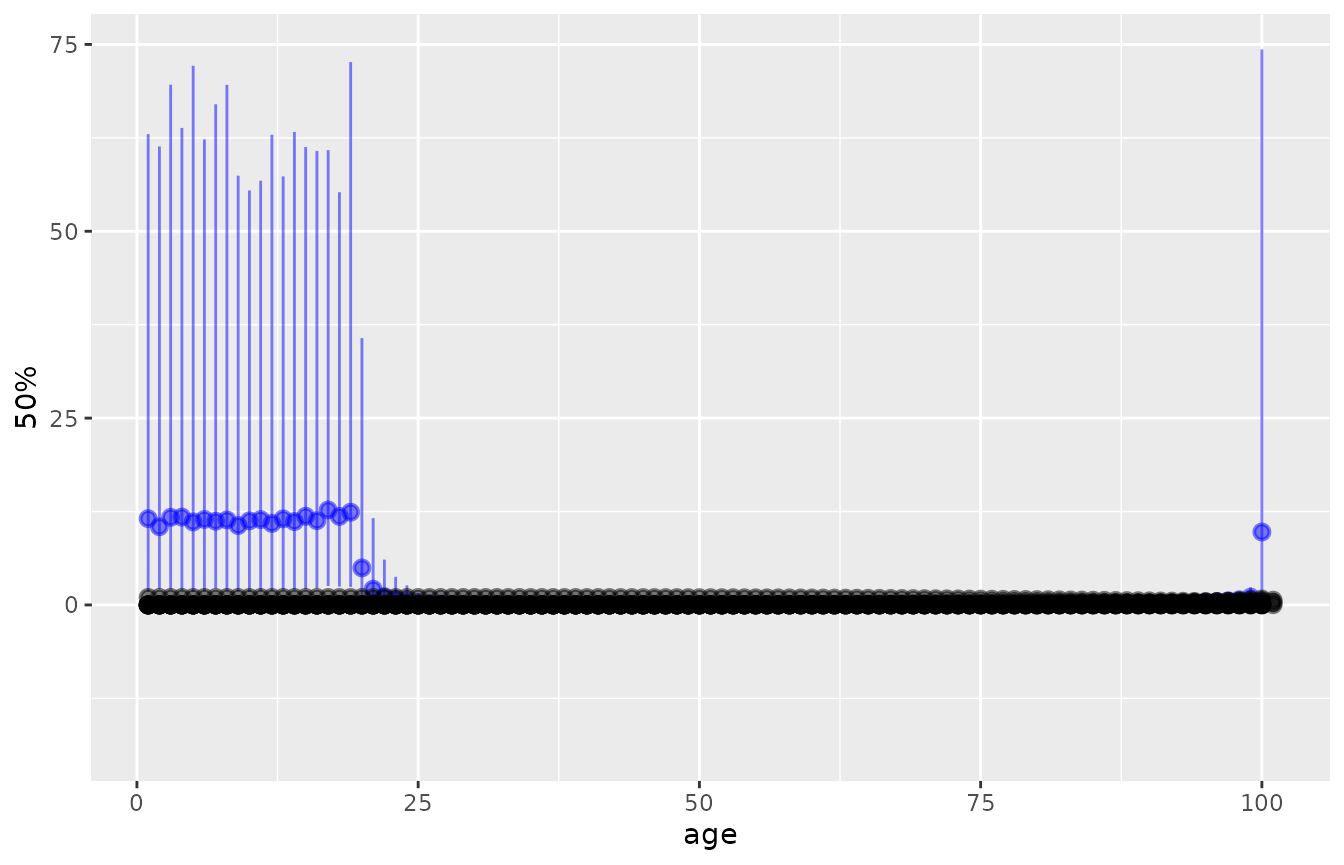
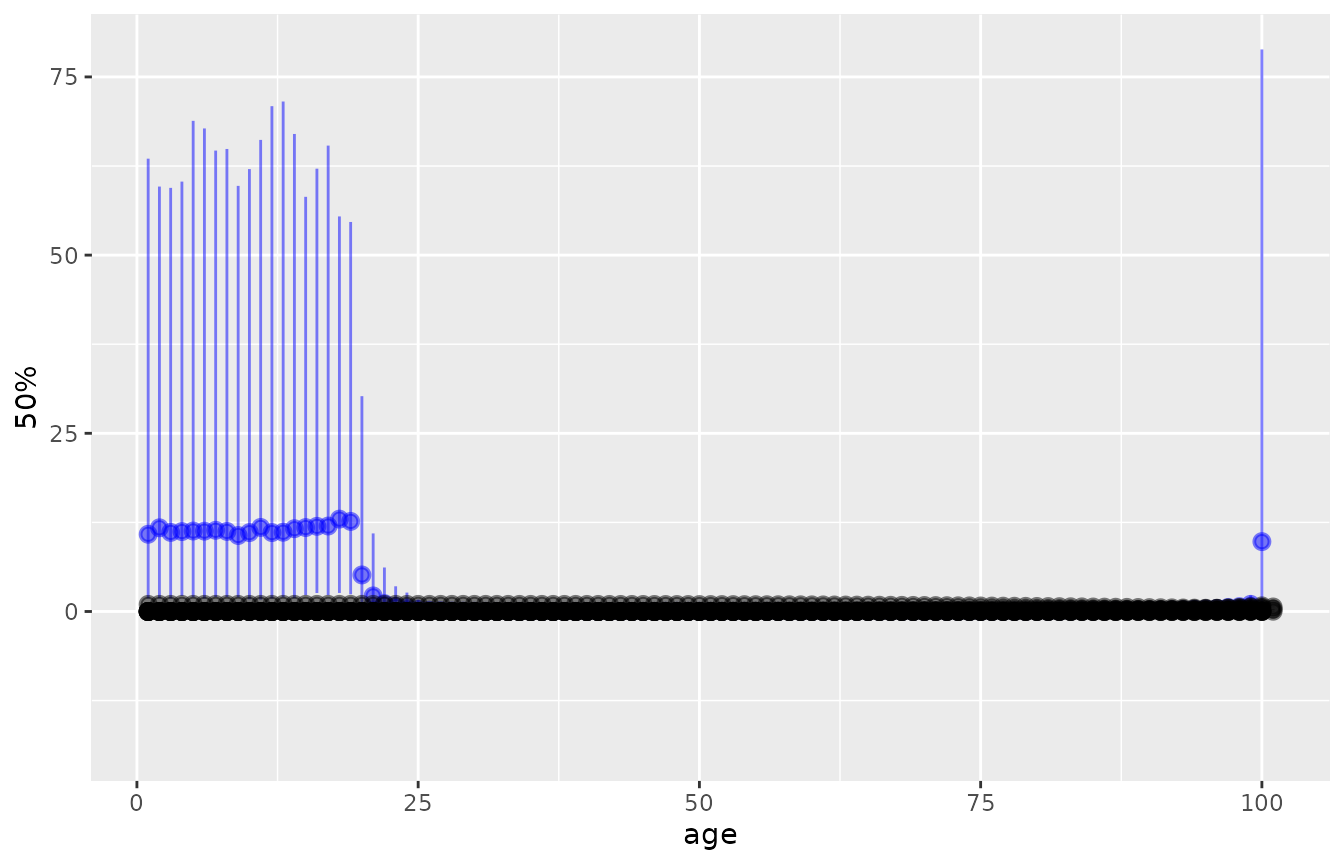
Built site for disbayes: 0.1@8782206

diff --git a/articles/disbayes.html b/articles/disbayes.html
@@ -325,12 +325,12 @@
   <span class="fu"><a href="https://dplyr.tidyverse.org/reference/filter.html">filter</a></span><span class="op">(</span><span class="va">var</span><span class="op">==</span><span class="st">"cf"</span>, <span class="fu"><a href="https://dplyr.tidyverse.org/reference/between.html">between</a></span><span class="op">(</span><span class="va">age</span>,<span class="fl">60</span>,<span class="fl">65</span><span class="op">)</span><span class="op">)</span> <span class="op">%&gt;%</span>
   <span class="fu"><a href="https://dplyr.tidyverse.org/reference/select.html">select</a></span><span class="op">(</span><span class="va">age</span>, <span class="va">`25%`</span>, <span class="va">`50%`</span>, <span class="va">`75%`</span><span class="op">)</span></code></pre></div>
 <pre><code>##   age        25%        50%        75%
-## 1  60 0.01541525 0.01661693 0.01788825
-## 2  61 0.01561033 0.01685860 0.01811163
-## 3  62 0.01589145 0.01707445 0.01828766
-## 4  63 0.01617610 0.01729326 0.01844684
-## 5  64 0.01647867 0.01749429 0.01865247
-## 6  65 0.01681138 0.01773585 0.01886255</code></pre>
+## 1  60 0.01545664 0.01663334 0.01777888
+## 2  61 0.01570048 0.01687896 0.01791480
+## 3  62 0.01599224 0.01709998 0.01809407
+## 4  63 0.01628485 0.01733306 0.01832704
+## 5  64 0.01656001 0.01754188 0.01857176
+## 6  65 0.01684163 0.01780113 0.01884706</code></pre>
 <p>The default <code>plot</code> method for objects returned by <code>disbayes</code> plots the posterior summaries for case fatality, allowing a quick check of the model results. Or do <code><a href="https://rdrr.io/r/graphics/plot.default.html">plot(..., variable="inc")</a></code> for incidence. The function returns a <code>ggplot2</code> object that can be modified with <code>ggplot2</code> functions, e.g. to add axis labels.</p>
 <div class="sourceCode" id="cb17"><pre class="downlit sourceCode r">
 <code class="sourceCode R"><span class="kw"><a href="https://rdrr.io/r/base/library.html">library</a></span><span class="op">(</span><span class="va"><a href="https://ggplot2.tidyverse.org">ggplot2</a></span><span class="op">)</span>
